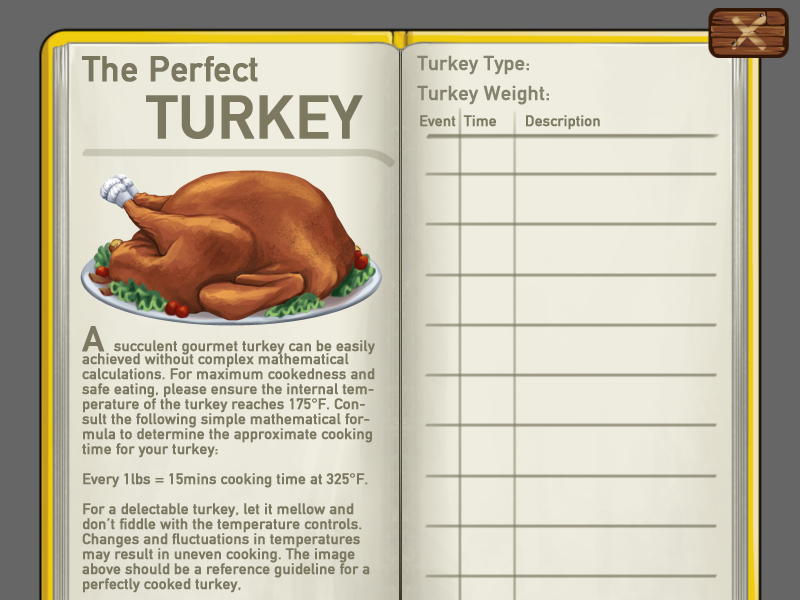
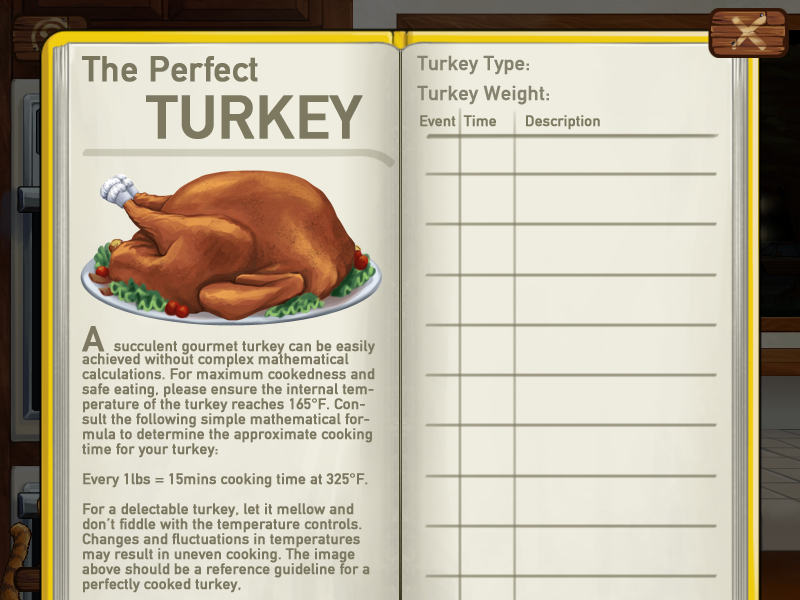
working score screen, fixes

Changed region(s): [[0.0, 0.0, 0.4688, 1.0], [0.9375, 0.0, 1.0, 1.0], [0.5, 0.0, 0.9062, 0.06]]

diff --git a/js/screens.js b/js/screens.js
@@ -206,8 +206,8 @@ function DifficultyScreen( stage, gameState ){
  	stage.addChild( new Button( stage, gameState, 500, 235, 100, 55, "ChangeGender", "Male" ) );
  	stage.addChild( new Button( stage, gameState, 500, 300, 100, 55, "ChangeGender", "Female" ) );
 
- 	stage.addChild( new Button( stage, gameState, 503, 370, 200, 55, null, null, function(){ gameState.hard = false; gameState.gameStarted = true; gameState.pubsub.publish("SwitchScreen", "KitchenScreen"); } ) );
- 	stage.addChild( new Button( stage, gameState, 500, 495, 205, 55, null, null, function(){ gameState.hard = true;  gameState.gameStarted = true; gameState.pubsub.publish("SwitchScreen", "KitchenScreen"); } ) );
+ 	stage.addChild( new Button( stage, gameState, 503, 370, 200, 55, null, null, function(){ gameState.hard = false; gameState.gameStarted = true; gameState.hardcoreModifier=20; gameState.pubsub.publish("SwitchScreen", "KitchenScreen"); } ) );
+ 	stage.addChild( new Button( stage, gameState, 500, 495, 205, 55, null, null, function(){ gameState.hard = true;  gameState.gameStarted = true; gameState.hardcoreModifier=1; gameState.pubsub.publish("SwitchScreen", "KitchenScreen"); } ) );
 
  	stage.addChild( new Button( stage, gameState, 35, 495, 85, 55, "SwitchScreen", "MainScreen" ) );
 
@@ -396,17 +396,43 @@ function ScoreScreen( stage, gameState ){
     var realTimeElapsed = Date.now() - gameState.startTime;
 
 	var turkeyState = gameState.ovenModel.getTurkeyState();
-    var finalCoreTemperature;
-    var totalScore;
+    var totalScore = 0;
+
+    var skinScoreChart  = {
+    	"raw": 0,
+    	"undercooked": -100,
+    	"slightly cooked": 75,
+    	"cooked": 500,
+    	"overcooked": 200,
+    	"dry": -300,
+    	"burnt": -500
+    };
+
+    var coreScoreChart  = {
+    	"raw": 0,
+    	"undercooked": 125,
+    	"slightly cooked": 750,
+    	"cooked": 1000,
+    	"overcooked": 1000,
+    	"dry": 400,
+    	"burnt": 0
+    }
+
+     // Optimal Temperature to be served at
+	this.scoreDistribution= function(inputTemp) {
+ 		desiredAverage = 162;
+		variance = 1000; //Std Deviation 31.62
+ 		return(Math.exp(-(Math.pow((inputTemp-desiredAverage),2)/(2*variance))))
+	};
 
 	gameState.pubsub.publish( "FadeOut", "" );
 
     this.background = new createjs.Bitmap( "res/screens/ScoreScreen/Score-Evaluation-1.png" );
-    this.background.alpha = 0;
+    this.background.alpha = 1;
     stage.addChild( this.background );
 
     background1 = new createjs.Bitmap( "res/screens/ScoreScreen/Score-Evaluation-2.png" );
-    background1.alpha = 1;
+    background1.alpha = 0;
 	stage.addChild( background1 );
 
 	for (i in gameState.turkeyStates){
@@ -421,121 +447,144 @@ function ScoreScreen( stage, gameState ){
 	gameState.pubsub.publish( "ShowDialog", {seq:"NoMoney", autoAdvance:true, endFunc:function(){
 		background1.alpha=1;
 
+		stage.addChild( new Button( stage, gameState, 590, 540, 190, 50, null, null, function(){ document.location.reload(); } ) );
+
+		// Cooking stats
+		var hours = parseInt( totalCookTime / 3600 ) % 24;
+		var minutes = parseInt( totalCookTime / 60 ) % 60;
+		var seconds = totalCookTime % 60;
+		var timeText = ("00"+hours).slice(-2) + ":" + ("00"+minutes).slice(-2) + ":" + ("00"+seconds).slice(-2);
+
+		var totalCookTimeText = new createjs.Text( timeText, "20px Arial", "#00000000" );
+		totalCookTimeText.x = 270;
+		totalCookTimeText.y = 107;
+
+		realTimeElapsed /= 1000;
+		hours = parseInt( realTimeElapsed / 3600 ) % 24;
+		minutes = parseInt( realTimeElapsed / 60 ) % 60;
+		seconds = realTimeElapsed % 60;
+		timeText = ("00"+hours).slice(-2) + ":" + ("00"+minutes).slice(-2) + ":" + ("00"+seconds).slice(-2);
+
+		var realtimeElapsedText = new createjs.Text( timeText, "20px Arial", "#00000000" );
+		realtimeElapsedText.x = 270;
+		realtimeElapsedText.y = 127;
+
+		var ovenOpenedText = new createjs.Text( gameState.ovenOpened, "20px Arial", "#00000000" );
+		ovenOpenedText.x = 270;
+		ovenOpenedText.y = 147;
+
+		var dialogueHeardText = new createjs.Text( gameState.dialogueHeard, "20px Arial", "#00000000" );
+		dialogueHeardText.x = 270;
+		dialogueHeardText.y = 167;
+
+
+		stage.addChild( totalCookTimeText );
+		stage.addChild( realtimeElapsedText );
+		stage.addChild( ovenOpenedText );
+		stage.addChild( dialogueHeardText );
+
+		// Cookedness Score
+
+		var outerConditionDesc = new createjs.Text( turkeyState.skin.cond[2], "20px Arial", "#00000000" );
+		outerConditionDesc.x = 150;
+		outerConditionDesc.y = 320;
+
+		totalScore += parseInt(skinScoreChart[ turkeyState.skin.cond[2]]);
+
+		var coreConditionDesc = new createjs.Text( turkeyState.core.cond[2], "20px Arial", "#00000000" );
+		coreConditionDesc.x = 150;
+		coreConditionDesc.y = 340;
+
+		totalScore += parseInt(skinScoreChart[ turkeyState.core.cond[2]]);
+
+		var outerConditionText = new createjs.Text( skinScoreChart[ turkeyState.skin.cond[2] ], "20px Arial", "#00000000" );
+		outerConditionText.x = 310;
+		outerConditionText.y = 320;
+
+		var coreConditionText = new createjs.Text( coreScoreChart[  turkeyState.skin.cond[2] ], "20px Arial", "#00000000" );
+		coreConditionText.x = 310;
+		coreConditionText.y = 340;
+
+
+		stage.addChild( coreConditionText );
+		stage.addChild( outerConditionText );
+
+		stage.addChild( coreConditionDesc );
+		stage.addChild( outerConditionDesc );
+
+		// Temperature Score
+		var outerTemp = UtilityFunctions.C2F(turkeyState.skin.temp).toFixed(2);
+		var coreTemp = UtilityFunctions.C2F(turkeyState.core.temp).toFixed(2);
+
+		var outerTempScore = that.scoreDistribution( outerTemp ) * 200;
+		var coreTempScore = that.scoreDistribution( coreTemp ) * 200;
+
+		var outerTemperatureText = new createjs.Text( outerTempScore.toFixed(0), "20px Arial", "#00000000" );
+		outerTemperatureText.x = 680;
+		outerTemperatureText.y = 320;
+
+		var coreTemperatureText = new createjs.Text( coreTempScore.toFixed(0), "20px Arial", "#00000000" );
+		coreTemperatureText.x = 680;
+		coreTemperatureText.y = 340;
+
+		var outerTemperatureDesc = new createjs.Text( outerTemp + " F", "20px Arial", "#00000000" );
+		outerTemperatureDesc.x = 530;
+		outerTemperatureDesc.y = 320;
+
+		totalScore += parseInt(outerTempScore.toFixed(0));
+
+		var coreTemperatureDesc = new createjs.Text( coreTemp + " F", "20px Arial", "#00000000" );
+		coreTemperatureDesc.x = 530;
+		coreTemperatureDesc.y = 340;
+
+		totalScore += parseInt(coreTempScore.toFixed(0));
+
+		stage.addChild( outerTemperatureText );
+		stage.addChild( coreTemperatureText );
+
+		stage.addChild( coreTemperatureDesc );
+		stage.addChild( outerTemperatureDesc );
+
+		console.log(totalScore);
+
+		// Modifiers
+		var turkeyTypeModifierText = new createjs.Text( "x"+"1", "20px Arial", "#00000000" );
+		turkeyTypeModifierText.x = 310;
+		turkeyTypeModifierText.y = 437;
+
+		totalScore *= 1;
+
+		var stuffingTypeModifierText = new createjs.Text( "x"+"1", "20px Arial", "#00000000" );
+		stuffingTypeModifierText.x = 310
+		stuffingTypeModifierText.y = 457;
+
+		totalScore *= 1;
+
+		var frillsModifierText = new createjs.Text( "x"+"1", "20px Arial", "#00000000" );
+		frillsModifierText.x = 310
+		frillsModifierText.y = 477;
+
+		totalScore *= 1;
+
+		var hardcoreModifierText = new createjs.Text( "x"+gameState.hardcoreModifier, "20px Arial", "#00000000" );
+		hardcoreModifierText.x = 310
+		hardcoreModifierText.y = 497;
+
+		totalScore *= gameState.hardcoreModifier;
+
+		var totalText = new createjs.Text( totalScore, "32px Arial", "#00000000" );
+		totalText.x = 250
+		totalText.y = 550;
+		stage.addChild( totalText );
+
+		stage.addChild( stuffingTypeModifierText );
+		stage.addChild( turkeyTypeModifierText );
+		stage.addChild( frillsModifierText );
+		stage.addChild( hardcoreModifierText );
+
+
 	}} );
 
-	stage.addChild( new Button( stage, gameState, 590, 540, 190, 50, null, null, function(){ document.location.reload(); } ) );
-
-
-	// Cooking stats
-	var hours = parseInt( totalCookTime / 3600 ) % 24
-	var minutes = parseInt( totalCookTime / 60 ) % 60;
-	var timeText = hours + ":" + minutes;
-
-	var totalCookTimeText = new createjs.Text( timeText, "20px Arial", "#00000000" );
-	totalCookTimeText.x = 270;
-	totalCookTimeText.y = 107;
-
-	realTimeElapsed /= 1000;
-	hours = parseInt( realTimeElapsed / 3600 ) % 24
-	minutes = parseInt( realTimeElapsed / 60 ) % 60;
-	timeText = hours + ":" + minutes;
-
-	var realtimeElapsedText = new createjs.Text( timeText, "20px Arial", "#00000000" );
-	realtimeElapsedText.x = 270;
-	realtimeElapsedText.y = 127;
-
-	var ovenOpenedText = new createjs.Text( gameState.ovenOpened, "20px Arial", "#00000000" );
-	ovenOpenedText.x = 270;
-	ovenOpenedText.y = 147;
-
-	var dialogueHeardText = new createjs.Text( gameState.dialogHeard, "20px Arial", "#00000000" );
-	dialogueHeardText.x = 270;
-	dialogueHeardText.y = 167;
-
-
-	stage.addChild( totalCookTimeText );
-	stage.addChild( realtimeElapsedText );
-	stage.addChild( ovenOpenedText );
-	stage.addChild( dialogueHeardText );
-
-	// Cookedness Score
-	var outerConditionText = new createjs.Text( "100", "20px Arial", "#00000000" );
-	outerConditionText.x = 310;
-	outerConditionText.y = 320;
-
-	var coreConditionText = new createjs.Text( "200", "20px Arial", "#00000000" );
-	coreConditionText.x = 310;
-	coreConditionText.y = 340;
-
-	var outerConditionDesc = new createjs.Text( "RAW", "20px Arial", "#00000000" );
-	outerConditionDesc.x = 150;
-	outerConditionDesc.y = 320;
-
-	var coreConditionDesc = new createjs.Text( "COOKED", "20px Arial", "#00000000" );
-	coreConditionDesc.x = 150;
-	coreConditionDesc.y = 340;
-
-	stage.addChild( coreConditionText );
-	stage.addChild( outerConditionText );
-
-	stage.addChild( coreConditionDesc );
-	stage.addChild( outerConditionDesc );
-
-	// Temperature Score
-	var outerTemp = UtilityFunctions.C2F(turkeyState.skin.temp).toFixed(2);
-	var coreTemp = UtilityFunctions.C2F(turkeyState.core.temp).toFixed(2);
-
-	var outerTemperatureText = new createjs.Text( "100", "20px Arial", "#00000000" );
-	outerTemperatureText.x = 680;
-	outerTemperatureText.y = 320;
-
-	var coreTemperatureText = new createjs.Text( "200", "20px Arial", "#00000000" );
-	coreTemperatureText.x = 680;
-	coreTemperatureText.y = 340;
-
-	var outerTemperatureDesc = new createjs.Text( outerTemp + " F", "20px Arial", "#00000000" );
-	outerTemperatureDesc.x = 530;
-	outerTemperatureDesc.y = 320;
-
-	var coreTemperatureDesc = new createjs.Text( coreTemp + " F", "20px Arial", "#00000000" );
-	coreTemperatureDesc.x = 530;
-	coreTemperatureDesc.y = 340;
-
-	stage.addChild( outerTemperatureText );
-	stage.addChild( coreTemperatureText );
-
-	stage.addChild( coreTemperatureDesc );
-	stage.addChild( outerTemperatureDesc );
-
-
-	// Modifiers
-	var turkeyTypeModifierText = new createjs.Text( "x"+"1", "20px Arial", "#00000000" );
-	turkeyTypeModifierText.x = 310;
-	turkeyTypeModifierText.y = 437;
-
-	var stuffingTypeModifierText = new createjs.Text( "x"+"1", "20px Arial", "#00000000" );
-	stuffingTypeModifierText.x = 310
-	stuffingTypeModifierText.y = 457;
-
-	var frillsModifierText = new createjs.Text( "x"+"1", "20px Arial", "#00000000" );
-	frillsModifierText.x = 310
-	frillsModifierText.y = 477;
-
-	var hardcoreModifierText = new createjs.Text( "x"+"10", "20px Arial", "#00000000" );
-	hardcoreModifierText.x = 310
-	hardcoreModifierText.y = 497;
-
-	stage.addChild( stuffingTypeModifierText );
-	stage.addChild( turkeyTypeModifierText );
-	stage.addChild( frillsModifierText );
-	stage.addChild( hardcoreModifierText );
-
-    // Optimal Temperature to be served at
-	this.scoreDistribution= function(inputTemp) {
- 		desiredAverage = 162;
-		variance = 1000; //Std Deviation 31.62
- 		return(Math.exp(-(Math.pow((inputTemp-desiredAverage),2)/(2*variance))))
-	};
 
     return {
 		blit : function(){}

diff --git a/js/ui.js b/js/ui.js
@@ -421,6 +421,7 @@ function OvenUI( stage, gameState ){
 				gameState.pubsub.publish( "ShowDialog", {seq:"custom", autoAdvance:true, customText:"Hmm... Looks " + turkeyState["skin"]["cond"][2] + "." } );
 				gameState.pubsub.publish( "AddRecord", {type:"Open ", text:"The turkey looked " + turkeyState["skin"]["cond"][2]} );
 				gameState.ovenModel.setRawTemp( (gameState.ovenModel.getRawTemp() - 25) < 150 ? 150 : gameState.ovenModel.getRawTemp() - 25 );
+				gameState.ovenOpened++;
 			}
 
 			gameState.pubsub.publish( "Play", "Oven_Door_Full_Open" );
@@ -451,7 +452,6 @@ function OvenUI( stage, gameState ){
 				var state = gameState.ovenModel.getTurkeyState();
 				gameState.pubsub.publish( "ShowDialog", {seq:"custom", autoAdvance:true, customText:"Looks " + turkeyState["skin"]["cond"][2] } );
 				gameState.pubsub.publish( "AddRecord", {type:"Peek ", text:"The turkey looked " + turkeyState["skin"]["cond"][2]} );
-    			that.ovenOpened++;
 			}
 		}
 		else if (that.ovenDoor == OVEN_PEEK){
@@ -475,7 +475,6 @@ function OvenUI( stage, gameState ){
 			state = gameState.ovenModel.getTurkeyState();
 			gameState.pubsub.publish( "ShowDialog", {seq:"custom", autoAdvance:true, customText:"The core temperature of the turkey reads " + UtilityFunctions.C2F(state.core.temp).toFixed(2) + " F" } );
 			gameState.pubsub.publish( "AddRecord", {type:"Probe", text:"Core temperature measured: " + UtilityFunctions.C2F(state.core.temp).toFixed(2) + " F"} );
-			that.ovenOpened++;
 		}
 	}
 

diff --git a/js/model.js b/js/model.js
@@ -293,7 +293,7 @@ UtilityFunctions = {
 	cookCondition: function(cookValue,volume){
 		var multiplier = 1;
 		if (cookValue>=multiplier*600000) {
-			return ["Fire", (cookValue-600000)/(multiplier*600000),"like it's on fire"];
+			return ["Fire", (cookValue-600000)/(multiplier*600000),"fire"];
 		}
 		else if(cookValue>=multiplier*250000) {
 			return ["Burnt", (cookValue-250000)/(multiplier*600000), "burnt"];

diff --git a/js/dialogue.js b/js/dialogue.js
@@ -114,6 +114,7 @@ function DialogUI( stage, gameState ){
  			console.log("random story");
  			this.showDialog( {seq: dialogueList[ randomKey ] || "Dad Tells a bad Joke", autoAdvance:true } );
  			delete story[ dialogueList[ randomKey ] ];
+ 			gameState.dialogueHeard++;
  		}
  	}
 

diff --git a/js/main.js b/js/main.js
@@ -24,7 +24,7 @@ function GameState(){
 
     // stats
     this.storeVisits = 0;
-    this.dialogHeard = 0;
+    this.dialogueHeard = 0;
     this.ovenOpened = 0;
 
     // modifiers
